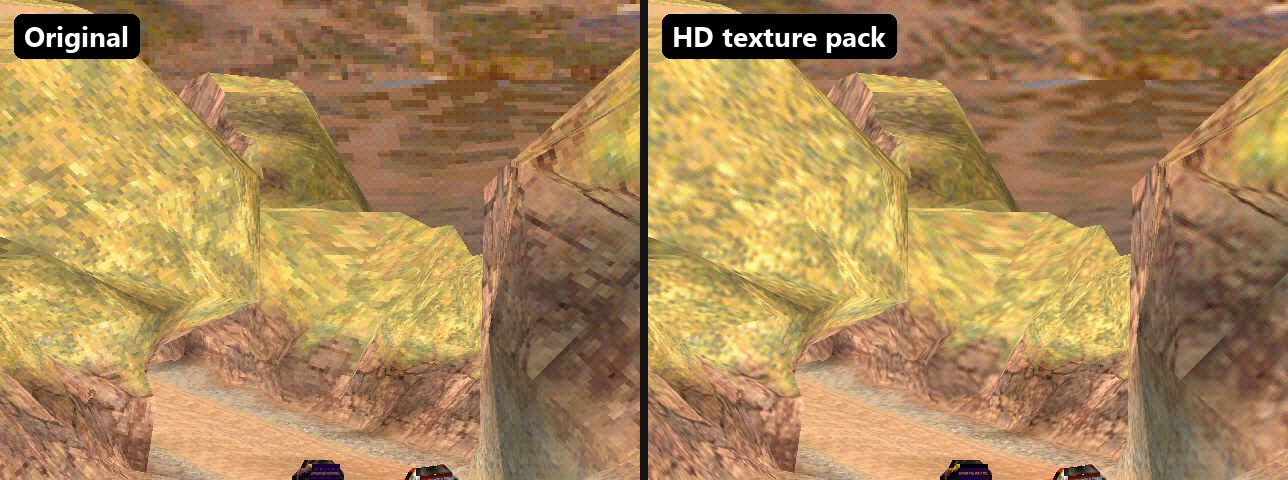
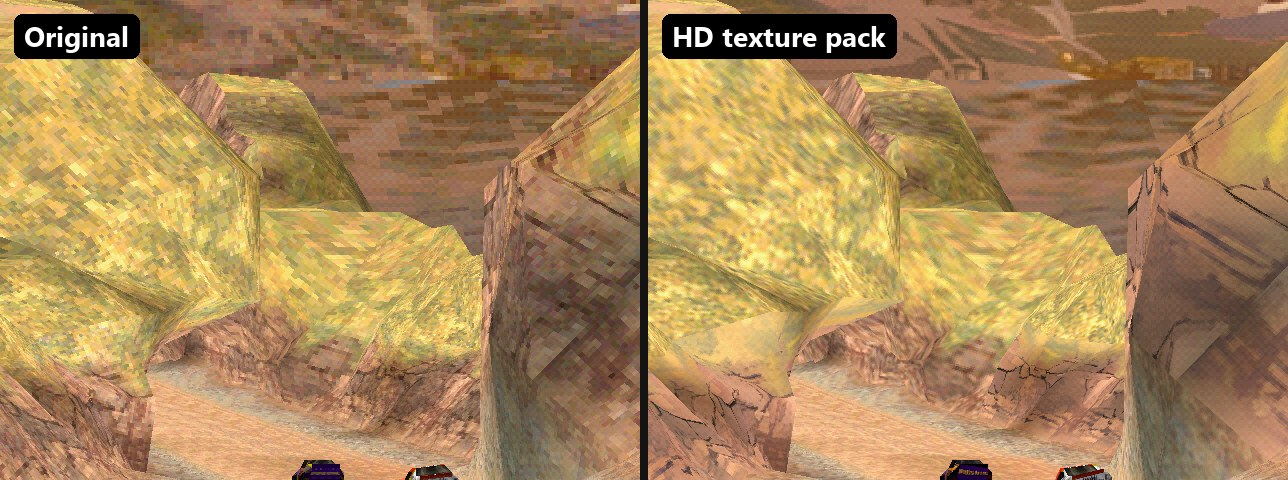
HD pack: AI gate 0.5 (2062 AI pages), refresh comparison images

diff --git a/docs/2-hd-textures.md b/docs/2-hd-textures.md
@@ -84,18 +84,18 @@ python tools/compare_sheet.py pack-work compare.png 8     # optional: nearest | 
 P=nascar-rumble-recomp/build-release/mods/texture-packs/SLUS-01068-hd
 mkdir -p $P
 python tools/build_pack.py finalize pack-work $P/replacements \
-  --resample lanczos --ai-gate 0.85 --scale 2 --merge --skip-ui
+  --resample lanczos --ai-gate 0.5 --scale 2 --merge --skip-ui
 ```
 
 | Flag | Effect |
 |---|---|
 | `--resample lanczos` | Lanczos for pages without an AI result, or that fail the gate |
-| `--ai-gate 0.85` | Use AI only when it kept at least 85% of the high-frequency detail (good pages score 0.7–0.95, smeared ones 0.2–0.35) |
+| `--ai-gate 0.5` | Use AI only when it kept at least 50% of the high-frequency detail. About two thirds of the pages pass, which makes cars, rock and cliffs visibly sharper. Some foliage comes out a bit painted. `0.85` is a cautious setting: only about 20% of pages use AI and the pack looks almost like the original in game. |
 | `--scale 2` | Downscale the output to 2× (keeps the pack under the 512 MiB preload cap) |
 | `--merge` | One entry per texture+palette (no per-draw compositing). Groups with unseen palette colours are left unmerged. |
 | `--skip-ui` | Leave the HUD, frontend and VRAM-built text native |
 
-The result is about 3,100 PNGs and about 120 MB.
+The result is about 3,100 PNGs (about 2,060 AI and 1,010 Lanczos) and about 110 MB.
 
 ## 2.5 Enable the pack
 
